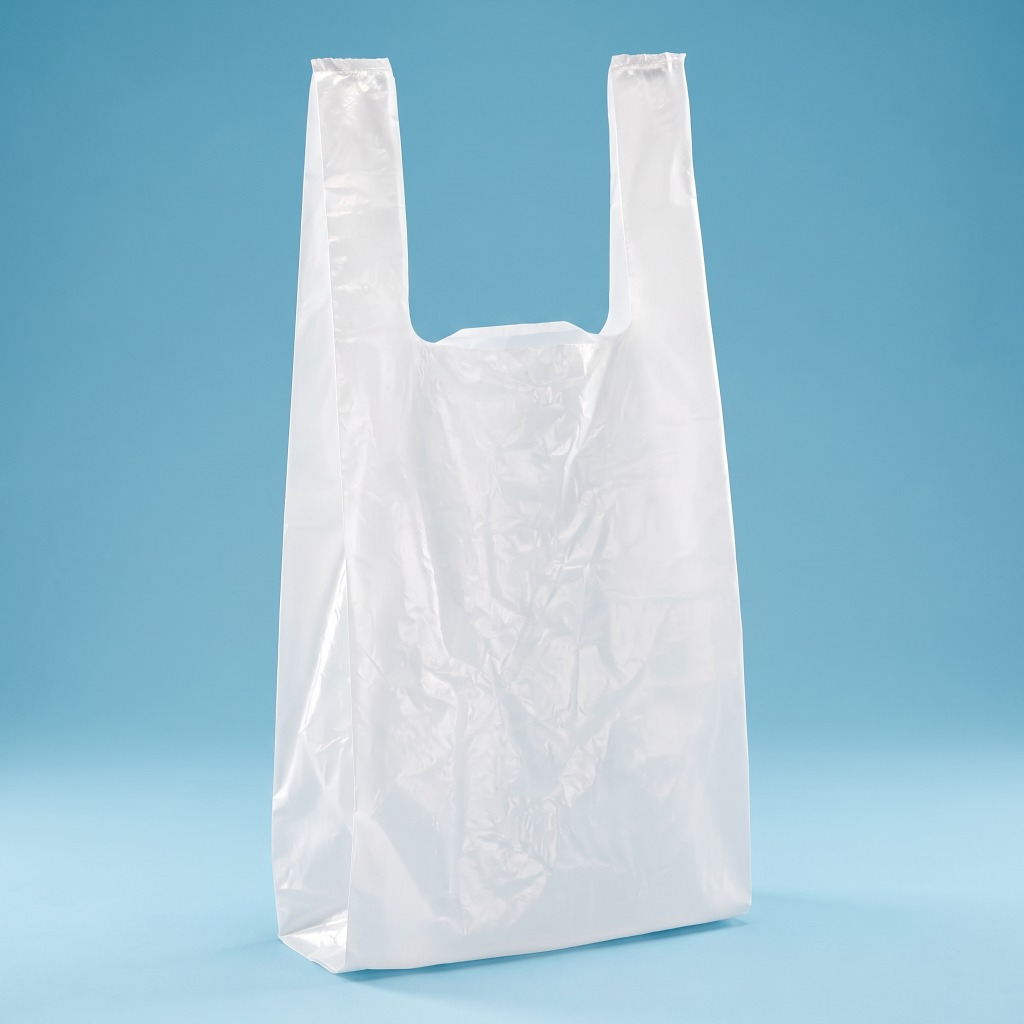
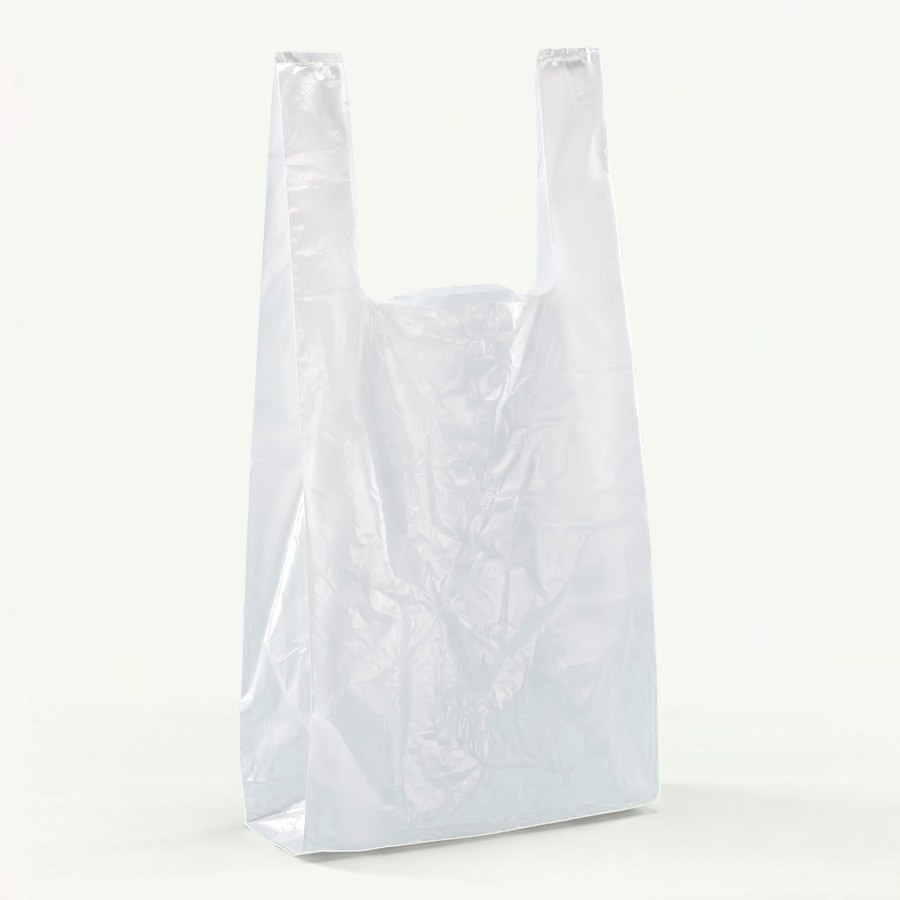
feat(desechables): implementar fondo de estudio neutro (#F6F7F1) para los 19 productos desechables

diff --git a/scripts/generar_desechables_neutro.py b/scripts/generar_desechables_neutro.py
@@ -1,0 +1,160 @@
+#!/usr/bin/env python3
+"""
+Generación de Imágenes con Fondo de Estudio Neutro para Desechables
+==================================================================
+Distribuidora Tridente
+
+Aplica el fondo neutro cálido (#F6F7F1, RGB 246, 247, 241) según la imagen
+de referencia adjunta por el usuario (referencia_fondo_neutro.png), eliminando
+completamente el fondo celeste previo y preservando sombras naturales de contacto
+y la máxima nitidez del producto.
+"""
+
+import io
+import os
+from pathlib import Path
+from PIL import Image
+import numpy as np
+
+REPO_ROOT = Path(__file__).resolve().parents[1]
+REF_NEUTRO_PATH = REPO_ROOT / "scripts" / "referencia_fondo_neutro.png"
+ASSETS_DIR = REPO_ROOT / "scripts" / "assets_estudio"
+REF_BAG_PATH = REPO_ROOT / "scripts" / "referencia_fondo.jpg"
+
+MAX_BINARY_BYTES = 72_000
+
+if not REF_NEUTRO_PATH.exists():
+    raise FileNotFoundError(f"No se encontró la referencia neutra en {REF_NEUTRO_PATH}")
+
+ref_im = Image.open(REF_NEUTRO_PATH).convert("RGB")
+
+
+def get_neutral_bg(w: int = 900, h: int = 900) -> Image.Image:
+    return ref_im.resize((w, h), Image.Resampling.LANCZOS)
+
+
+def compress_to_limit(img: Image.Image, max_bytes: int = MAX_BINARY_BYTES) -> tuple[bytes, int]:
+    for q in range(88, 35, -2):
+        buf = io.BytesIO()
+        img.save(buf, format="JPEG", quality=q, optimize=True)
+        raw = buf.getvalue()
+        if len(raw) <= max_bytes:
+            return raw, q
+    return raw, 35
+
+
+def process_cyan_to_neutral(img: Image.Image, codigo: str = "", target_dim: int = 900) -> Image.Image:
+    if img.size != (target_dim, target_dim):
+        img = img.resize((target_dim, target_dim), Image.Resampling.LANCZOS)
+
+    arr = np.array(img.convert("RGB"), dtype=np.float32)
+    h, w, _ = arr.shape
+
+    r = arr[:, :, 0]
+    g = arr[:, :, 1]
+    b = arr[:, :, 2]
+
+    # Cyan metric: en fondo celeste b > g > r
+    cyan_metric = (b - r) * 0.6 + (g - r) * 0.4
+
+    # Perfil del fondo celeste en margen izquierdo (cols 5 a 25)
+    bg_cyan_col = np.mean(arr[:, 5:25, :], axis=1)
+    bg_r = bg_cyan_col[:, 0]
+    bg_g = bg_cyan_col[:, 1]
+    bg_b = bg_cyan_col[:, 2]
+    bg_brightness = (bg_r + bg_g + bg_b) / 3.0
+
+    brightness = (r + g + b) / 3.0
+
+    # Ratio de sombra relativa al fondo limpio
+    shadow_ratio = np.clip(brightness / (bg_brightness[:, np.newaxis] + 1e-5), 0.55, 1.0)
+
+    # Canvas neutro de destino
+    neutral_bg = get_neutral_bg(w, h)
+    neutral_bg_arr = np.array(neutral_bg, dtype=np.float32)
+
+    # Umbrales según material del producto
+    if codigo in ["774", "775", "776", "777", "778"]:
+        # Plumavit: blanco sólido/gris claro
+        t_low = 8.0
+        t_high = 24.0
+    elif codigo in ["770", "771", "772", "773"]:
+        # Bambú/madera: tono cálido marrón/amarillo
+        t_low = 6.0
+        t_high = 22.0
+    elif codigo in ["765", "766"]:
+        # Vasos transparentes
+        t_low = 14.0
+        t_high = 32.0
+    else:
+        # Bolsas, vasos de papel (760-764, 767-769)
+        t_low = 10.0
+        t_high = 26.0
+
+    # Alfa de producto
+    alpha = np.clip((t_high - cyan_metric) / (t_high - t_low), 0.0, 1.0)
+
+    # De-spill de rebote celeste en bordes del producto
+    b_despill = np.minimum(b, np.maximum(r, g) + 3.0)
+    if codigo in ["774", "775", "776", "777", "778", "767", "761"]:
+        g_despill = np.minimum(g, r + 5.0)
+    else:
+        g_despill = g
+
+    prod_clean = np.stack([r, g_despill, b_despill], axis=2)
+
+    # Piso neutro con sombra de contacto preservada
+    floor_factor = np.clip((np.arange(h)[:, np.newaxis] - h * 0.55) / (h * 0.25), 0.0, 1.0)
+    effective_shadow = 1.0 - floor_factor * (1.0 - shadow_ratio) * 0.85
+    bg_shadowed = neutral_bg_arr * effective_shadow[:, :, np.newaxis]
+
+    # Mezcla compuesta
+    alpha_3d = alpha[:, :, np.newaxis]
+    out_arr = prod_clean * alpha_3d + bg_shadowed * (1.0 - alpha_3d)
+    out_arr = np.clip(out_arr, 0, 255).astype(np.uint8)
+
+    return Image.fromarray(out_arr)
+
+
+def main():
+    print("=" * 70)
+    print("GENERADOR DE IMÁGENES DE DESECHABLES CON FONDO NEUTRO (#F6F7F1)")
+    print("=" * 70)
+
+    # 1. Procesar Referencia de Fondo (Bolsas 760, 761, 762, 763)
+    print("\n1. Procesando imagen de referencia de bolsas (760, 761, 762, 763)...")
+    with Image.open(REF_BAG_PATH) as bag_im:
+        bag_neutro = process_cyan_to_neutral(bag_im, "762", target_dim=900)
+        raw_bag, q_bag = compress_to_limit(bag_neutro, MAX_BINARY_BYTES)
+        with open(REF_BAG_PATH, "wb") as f:
+            f.write(raw_bag)
+        print(f"  ✓ referencia_fondo.jpg actualizado: {len(raw_bag)} bytes ({len(raw_bag)/1024:.1f} KB, q={q_bag})")
+
+    # 2. Procesar Assets Curados 764 a 778
+    curated_codes = ["764", "765", "766", "767", "768", "769", "770", "771", "772", "773", "774", "775", "776", "777", "778"]
+    print(f"\n2. Procesando {len(curated_codes)} productos desechables en assets_estudio/...")
+    
+    for cod in curated_codes:
+        asset_file = ASSETS_DIR / f"{cod}_final.jpg"
+        if not asset_file.exists():
+            print(f"  ⚠ No se encontró {asset_file}")
+            continue
+
+        with Image.open(asset_file) as im:
+            res_neutro = process_cyan_to_neutral(im, cod, target_dim=900)
+            raw_bytes, q = compress_to_limit(res_neutro, MAX_BINARY_BYTES)
+            with open(asset_file, "wb") as f:
+                f.write(raw_bytes)
+                
+            arr = np.array(res_neutro)
+            tl = arr[5, 5].tolist()
+            br = arr[-6, -6].tolist()
+            print(f"  ✓ [{cod}] {len(raw_bytes):5d} B ({len(raw_bytes)/1024:4.1f} KB, q={q:2d}) | TL={tl} BR={br}")
+
+    print("\n" + "=" * 70)
+    print("✓ Todos los desechables convertidos exitosamente al estándar de fondo neutro.")
+    print("=" * 70)
+
+
+if __name__ == "__main__":
+    main()

diff --git a/scripts/aplicar_fondo_estudio_qa.py b/scripts/aplicar_fondo_estudio_qa.py
@@ -382,24 +382,37 @@ def main():
                     "notificar_stock": prod.get("notificar_stock", False),
                     "stock_notificacion": prod.get("stock_notificacion"),
                 }
-                req_put = urllib.request.Request(
-                    put_url,
-                    data=json.dumps(put_payload).encode("utf-8"),
-                    headers={
-                        "Content-Type": "application/json",
-                        "Authorization": f"Bearer {token}",
-                        "User-Agent": "Mozilla/5.0"
-                    },
-                    method="PUT"
-                )
-                with urllib.request.urlopen(req_put, timeout=20) as resp:
-                    if resp.status == 200:
-                        logger.info("[%d/%d] ✓ Cod %s (%s): %s -> %.1f KB (HTTP 200)",
-                                    i, len(to_process), cod, nombre[:22], tipo, final_kb)
-                        exitos += 1
-                    else:
-                        logger.warning("[%d/%d] ✗ Cod %s: HTTP %d", i, len(to_process), cod, resp.status)
-                        errores += 1
+                
+                success = False
+                for attempt in range(1, 4):
+                    try:
+                        req_put = urllib.request.Request(
+                            put_url,
+                            data=json.dumps(put_payload).encode("utf-8"),
+                            headers={
+                                "Content-Type": "application/json",
+                                "Authorization": f"Bearer {token}",
+                                "User-Agent": "Mozilla/5.0"
+                            },
+                            method="PUT"
+                        )
+                        with urllib.request.urlopen(req_put, timeout=25) as resp:
+                            if resp.status == 200:
+                                logger.info("[%d/%d] ✓ Cod %s (%s): %s -> %.1f KB (HTTP 200)",
+                                            i, len(to_process), cod, nombre[:22], tipo, final_kb)
+                                exitos += 1
+                                success = True
+                                break
+                            else:
+                                logger.warning("[%d/%d] ✗ Cod %s: HTTP %d (intento %d)", i, len(to_process), cod, resp.status, attempt)
+                    except Exception as req_err:
+                        if attempt < 3:
+                            logger.warning("[%d/%d] Reintentando cod %s por error transitorio: %s", i, len(to_process), cod, req_err)
+                            time.sleep(2.0)
+                        else:
+                            raise req_err
+                if not success:
+                    errores += 1
             else:
                 logger.info("[%d/%d] ✓ [DRY-RUN] Cod %s (%s): %s -> %.1f KB",
                             i, len(to_process), cod, nombre[:22], tipo, final_kb)

diff --git a/scripts/generar_sql_desechables_neutro.py b/scripts/generar_sql_desechables_neutro.py
@@ -1,0 +1,55 @@
+#!/usr/bin/env python3
+"""
+Genera el script SQL para actualizar las 19 imágenes de Desechables con fondo neutro (#F6F7F1)
+directamente en la base de datos PostgreSQL (QA o Producción).
+"""
+
+import base64
+from pathlib import Path
+
+REPO_ROOT = Path(__file__).resolve().parents[1]
+ASSETS_DIR = REPO_ROOT / "scripts" / "assets_estudio"
+REF_BAG_PATH = REPO_ROOT / "scripts" / "referencia_fondo.jpg"
+SQL_OUTPUT = REPO_ROOT / "scripts" / "actualizar_desechables_neutro.sql"
+
+BAG_CODES = ["760", "761", "762", "763"]
+CURATED_CODES = ["764", "765", "766", "767", "768", "769", "770", "771", "772", "773", "774", "775", "776", "777", "778"]
+
+with open(REF_BAG_PATH, "rb") as f:
+    bag_b64 = base64.b64encode(f.read()).decode("utf-8")
+
+lines = [
+    "-- ====================================================================",
+    "-- ACTUALIZACIÓN ATÓMICA DE IMÁGENES DE DESECHABLES - FONDO NEUTRO (#F6F7F1)",
+    "-- Distribuidora Tridente",
+    "-- ====================================================================",
+    "BEGIN;",
+    ""
+]
+
+# Bolsas 760-763
+for cod in BAG_CODES:
+    lines.append(f"-- Producto {cod}")
+    lines.append(f"UPDATE productos SET imagen_url = '{bag_b64}' WHERE codigo = '{cod}';")
+    lines.append("")
+
+# Desechables curados 764-778
+for cod in CURATED_CODES:
+    asset_file = ASSETS_DIR / f"{cod}_final.jpg"
+    with open(asset_file, "rb") as f:
+        b64 = base64.b64encode(f.read()).decode("utf-8")
+    lines.append(f"-- Producto {cod}")
+    lines.append(f"UPDATE productos SET imagen_url = '{b64}' WHERE codigo = '{cod}';")
+    lines.append("")
+
+lines.extend([
+    "COMMIT;",
+    "-- ====================================================================",
+    "-- FIN DE ACTUALIZACIÓN",
+    "-- ===================================================================="
+])
+
+with open(SQL_OUTPUT, "w", encoding="utf-8") as f:
+    f.write("\n".join(lines))
+
+print(f"✓ Archivo SQL generado exitosamente en {SQL_OUTPUT} ({len(lines)} líneas)")

diff --git a/backend/app/services/image_service.py b/backend/app/services/image_service.py
@@ -386,8 +386,8 @@ def optimize_product_image_base64(
     try:
         raw_bytes = base64.b64decode(clean_b64)
         with Image.open(BytesIO(raw_bytes)) as img:
-            # Si ya es una imagen cuadrada con fondo de estudio y pesa <= 72.000 bytes,
-            # conservarla directamente sin alteraciones
+            # Si ya es una imagen cuadrada con fondo de estudio (celeste o neutro cálido #F6F7F1)
+            # y pesa <= 72.000 bytes, conservarla directamente sin alteraciones
             w_img, h_img = img.size
             if abs(w_img - h_img) <= 4 and len(raw_bytes) <= 72_000:
                 rgb_check = img.convert("RGB")
@@ -398,8 +398,14 @@ def optimize_product_image_base64(
                     rgb_check.getpixel((0, h_c - 1)),
                     rgb_check.getpixel((w_c - 1, h_c - 1))
                 ]
+                # Reconocer fondo de estudio:
+                # 1. Celeste: c[2] > c[0] + 15
+                # 2. Neutro cálido (#F6F7F1): R~246, G~247, B~241
+                # 3. Oscuro o gradiente de estudio: brillo promedio < 252 (no blanco puro 255)
                 is_studio_bg = any(
-                    (c[2] > c[0] + 15) or ((c[0] + c[1] + c[2]) / 3 < 240)
+                    (c[2] > c[0] + 15) or 
+                    ((c[0] + c[1] + c[2]) / 3 < 252 and not all(val >= 254 for val in c[:3])) or
+                    (abs(c[0] - 246) <= 8 and abs(c[1] - 247) <= 8 and abs(c[2] - 241) <= 8)
                     for c in corners if len(c) >= 3
                 )
                 if is_studio_bg:
